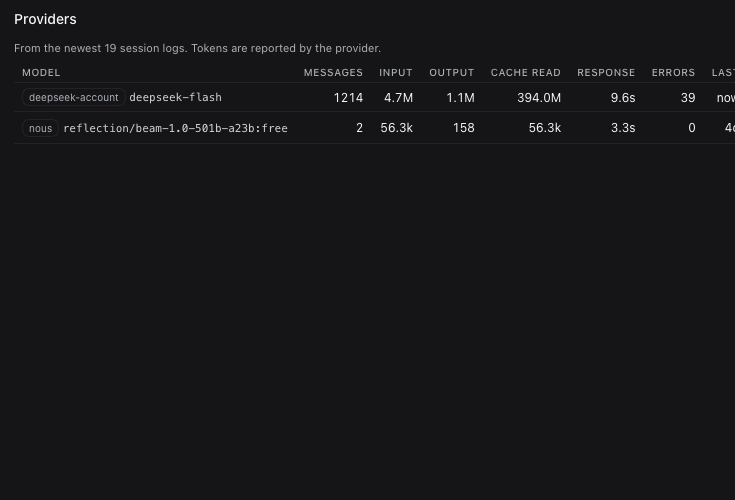
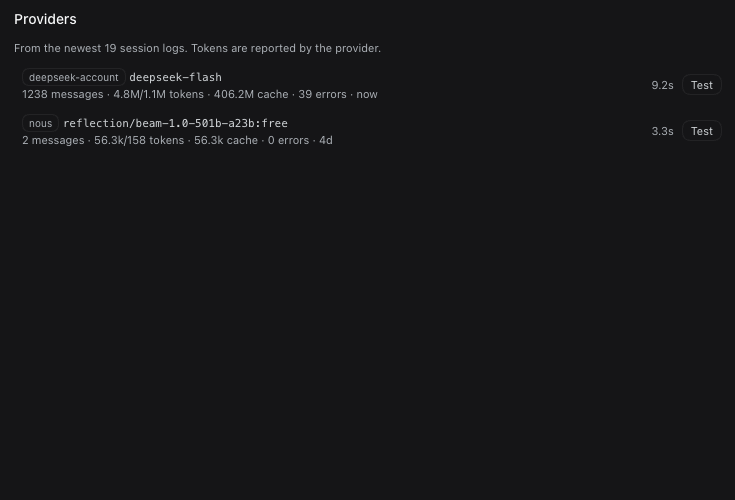
Providers: compact rows with Test; restore board and command components

diff --git a/packages/toolbox/client.js b/packages/toolbox/client.js
@@ -247,42 +247,34 @@ window.__ModuleLoader__.load({
         data.rows.length === 0
           ? h('div', { className: 'tbx-empty' }, t('providers.empty'))
           : h(
-              'table',
-              { className: 'tbx-table' },
-              h('thead', null, h('tr', null,
-                h('th', null, t('providers.model')),
-                h('th', { className: 'num' }, t('providers.messages')),
-                h('th', { className: 'num' }, t('providers.input')),
-                h('th', { className: 'num' }, t('providers.output')),
-                h('th', { className: 'num' }, t('providers.cache')),
-                h('th', { className: 'num' }, t('providers.latency')),
-                h('th', { className: 'num' }, t('providers.errors')),
-                h('th', { className: 'num' }, t('providers.last')),
-                h('th', null, t('providers.test')),
-              )),
-              h('tbody', null, data.rows.map((row) => h('tr', { key: `${row.provider}::${row.model}` },
-                h('td', null,
-                  h('span', { className: 'tbx-badge' }, row.provider),
-                  ' ',
-                  h('span', { className: 'tbx-prov' }, row.model),
-                ),
-                h('td', { className: 'num' }, String(row.messages)),
-                h('td', { className: 'num' }, n(row.inputTokens)),
-                h('td', { className: 'num' }, n(row.outputTokens)),
-                h('td', { className: 'num' }, n(row.cacheReadTokens)),
-                h('td', { className: 'num' }, row.latencyMs === null || row.latencyMs === undefined ? '—' : row.latencyMs < 1000 ? `${row.latencyMs}ms` : `${(row.latencyMs / 1000).toFixed(1)}s`),
-                h('td', { className: 'num' }, String(row.errors)),
-                h('td', { className: 'num' }, ago(row.lastUsed)),
-                h('td', null, (() => {
-                  const key = `${row.provider}::${row.model}`
-                  const test = tests[key]
-                  if (test === undefined) {
-                    return h('button', { type: 'button', className: 'tbx-btn', onClick: () => void ping(row) }, t('providers.test'))
-                  }
-                  if (test.state === 'loading') return h('span', { className: 'tbx-muted' }, t('providers.testing'))
-                  return h('span', { className: 'tbx-muted', title: test.label }, test.state === 'ok' ? `✓ ${test.label}` : `✕ ${test.label.slice(0, 28)}`)
-                })()),
-              ))),
+              'div',
+              { className: 'tbx-list' },
+              data.rows.map((row) => {
+                const key = `${row.provider}::${row.model}`
+                const test = tests[key]
+                return h(
+                  'div',
+                  { className: 'tbx-row', key },
+                  h('span', { className: 'tbx-copy' },
+                    h('span', { className: 'tbx-name' },
+                      h('span', { className: 'tbx-badge' }, row.provider),
+                      ' ',
+                      h('span', { className: 'tbx-prov' }, row.model),
+                    ),
+                    h('span', { className: 'tbx-desc' },
+                      `${row.messages} ${t('sessions.messagesShort')} · ${n(row.inputTokens)}/${n(row.outputTokens)} ${t('providers.tokensShort')} · ${n(row.cacheReadTokens)} ${t('providers.cacheShort')} · ${row.errors} ${t('providers.errorsShort')} · ${ago(row.lastUsed)}`,
+                    ),
+                  ),
+                  h('span', { className: 'tbx-muted', title: t('providers.responseTitle') },
+                    row.latencyMs === null || row.latencyMs === undefined ? '—' : row.latencyMs < 1000 ? `${row.latencyMs}ms` : `${(row.latencyMs / 1000).toFixed(1)}s`,
+                  ),
+                  test === undefined
+                    ? h('button', { type: 'button', className: 'tbx-btn', onClick: () => void ping(row) }, t('providers.test'))
+                    : test.state === 'loading'
+                      ? h('span', { className: 'tbx-muted' }, t('providers.testing'))
+                      : h('span', { className: 'tbx-muted', title: test.label }, test.state === 'ok' ? `✓ ${test.label}` : `✕ ${test.label.slice(0, 24)}`),
+                )
+              }),
             ),
       )
     }
@@ -349,9 +341,6 @@ window.__ModuleLoader__.load({
       }
 
       const moveCard = (fromColumn, cardId, toColumn, toIndex) => {
-        if (fromColumn === toColumn && dropAt !== null && drag.current?.card === cardId) {
-          // same-column move: remove first, then clamp the target index
-        }
         const source = board.columns.find((c) => c.id === fromColumn)
         const moving = source?.cards.find((c) => c.id === cardId)
         if (moving === undefined) return
@@ -690,6 +679,10 @@ window.__ModuleLoader__.load({
       'providers.errors': 'Errors',
       'providers.last': 'Last',
       'providers.test': 'Test',
+      'providers.tokensShort': 'tokens',
+      'providers.cacheShort': 'cache',
+      'providers.errorsShort': 'errors',
+      'providers.responseTitle': 'Mean request to message',
       'providers.testing': 'Testing…',
       'providers.testFailed': 'failed',
       'providers.empty': 'No model calls recorded yet.',
@@ -746,6 +739,10 @@ window.__ModuleLoader__.load({
       'providers.errors': '错误',
       'providers.last': '最近',
       'providers.test': '测试',
+      'providers.tokensShort': 'token',
+      'providers.cacheShort': '缓存',
+      'providers.errorsShort': '错误',
+      'providers.responseTitle': '请求到消息的平均耗时',
       'providers.testing': '测试中…',
       'providers.testFailed': '失败',
       'providers.empty': '还没有模型调用记录。',
